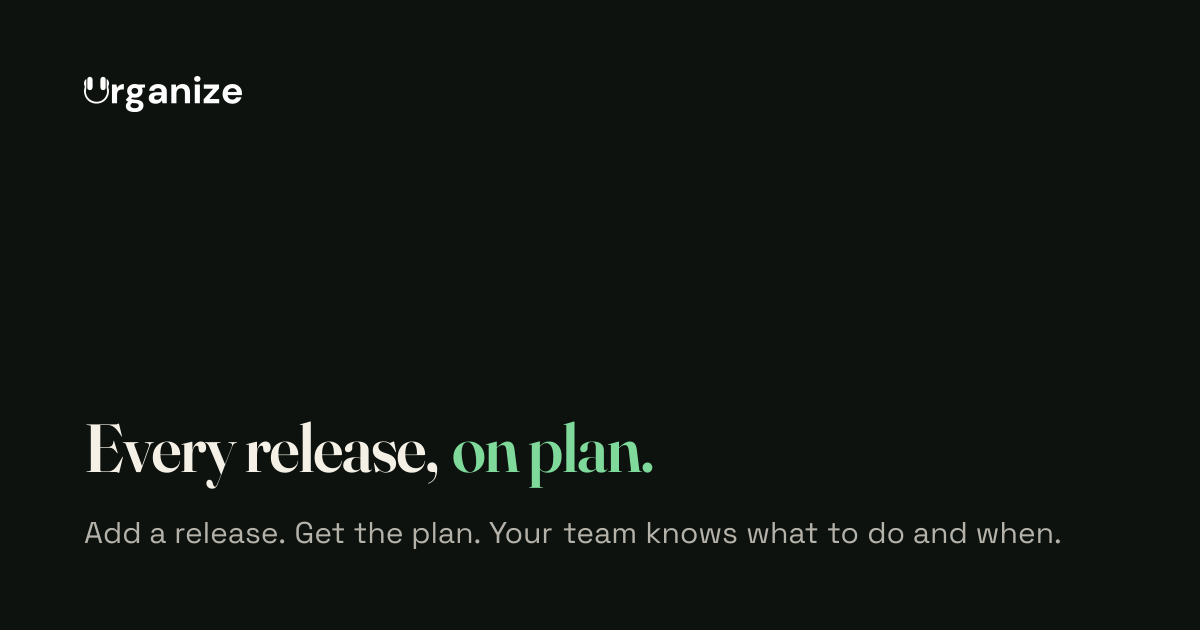
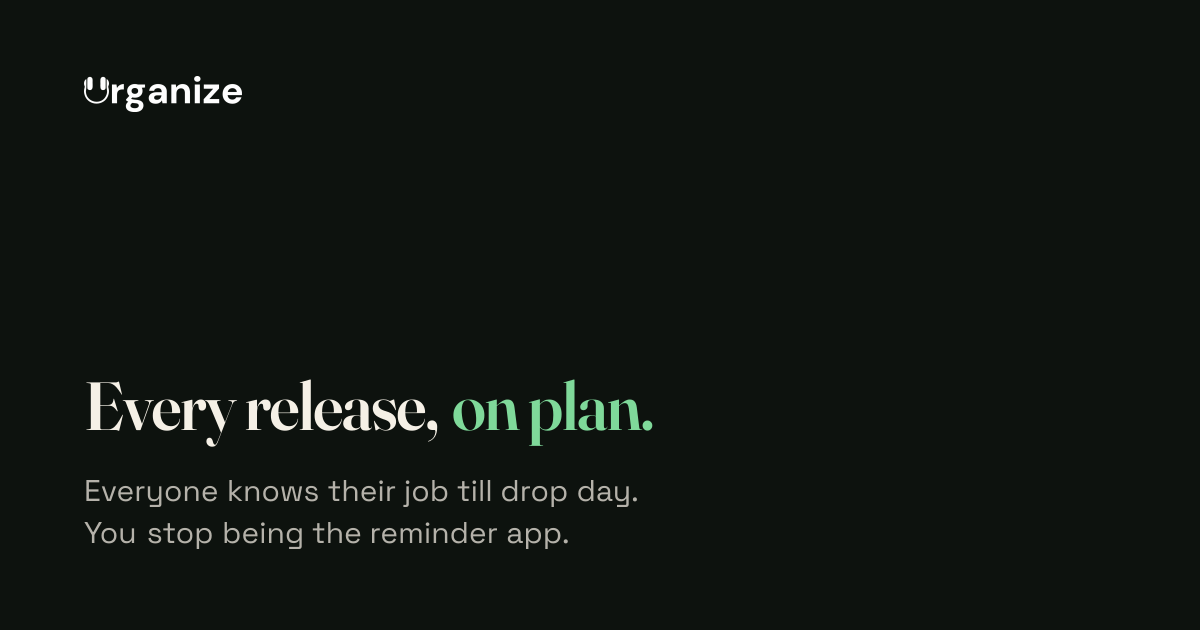
Share card and PROMISE_LINE now read "Everyone knows their job till drop day. You stop being the reminder app." (founder-approved short form of the new hero subline, 72 chars to stay under the 80-char guard): PROMISE_LINE in both positioning modules and its guard pin, the OG generator's SUB_LINE (no

Changed region(s): [[0.0617, 0.6032, 0.8942, 0.8746]]

diff --git a/apps/homepage/lib/seo.ts b/apps/homepage/lib/seo.ts
@@ -58,7 +58,7 @@ export const LANDING_DESCRIPTION = CANONICAL_DESCRIPTION;
 // Bump this string every time public/opengraph-image.png changes so the
 // URL is new to every platform and the very next fetch pulls fresh bytes,
 // instead of depending on a manual re-scrape request or an unknown TTL.
-const SHARE_IMAGE_VERSION = "2026-10-17-on-plan";
+const SHARE_IMAGE_VERSION = "2026-10-19-reminder-app";
 
 const SHARE_IMAGE = {
   url: `${SITE_URL}/opengraph-image.png?v=${SHARE_IMAGE_VERSION}`,
@@ -74,7 +74,8 @@ const SHARE_IMAGE = {
   // and has to be bumped by hand whenever the card is regenerated.
   //
   // The generator is `apps/homepage/scripts/generate-og-image.mjs`.
-  // Regenerated 2026-10-17 for "Every release, on plan." (URG-334); on
+  // Regenerated 2026-10-19 for the new promise line (URG-400, founder approved);
+  // 2026-10-17 for "Every release, on plan." (URG-334); on
   // 2026-09-24 for "Everything after the music"; twice on
   // 2026-09-11 for the widened category and the audience narrowing; on
   // 2026-09-09 for the release-to-rollout rename and before that for the

diff --git a/apps/web/lib/positioning-guard.test.ts b/apps/web/lib/positioning-guard.test.ts
@@ -247,7 +247,7 @@ describe('positioning', () => {
     // on time" replaced "do everything after the music is made".
     expect(CORE_LINE).toBe('Urganize is where music teams plan every release and deliver it on time.');
     expect(SHORT_LINE).toBe('Every release, on plan.');
-    expect(PROMISE_LINE).toBe('Add a release. Get the plan. Your team knows what to do and when.');
+    expect(PROMISE_LINE).toBe('Everyone knows their job till drop day. You stop being the reminder app.');
     // 2026-10-18 (founder approved): the long description leads with artist
     // managers, the buyer, and names them as its own last sentence.
     expect(CANONICAL_DESCRIPTION).toBe(

diff --git a/apps/web/lib/positioning.ts b/apps/web/lib/positioning.ts
@@ -78,7 +78,7 @@ export const SHORT_LINE = 'Every release, on plan.';
  * as A, B and C. The share card's second line and the homepage subhead.
  * Founder-approved with the homepage v2 hero on 2026-10-17 (URG-334).
  */
-export const PROMISE_LINE = 'Add a release. Get the plan. Your team knows what to do and when.';
+export const PROMISE_LINE = 'Everyone knows their job till drop day. You stop being the reminder app.';
 
 /**
  * Who it is for, in the fixed order artists, managers, labels.

diff --git a/apps/homepage/lib/positioning.ts b/apps/homepage/lib/positioning.ts
@@ -34,7 +34,7 @@ export const CORE_LINE = `Urganize is ${CORE_CLAUSE}.`;
 
 export const SHORT_LINE = 'Every release, on plan.';
 
-export const PROMISE_LINE = 'Add a release. Get the plan. Your team knows what to do and when.';
+export const PROMISE_LINE = 'Everyone knows their job till drop day. You stop being the reminder app.';
 
 export const AUDIENCE = ['artists', 'managers', 'labels'] as const;
 
